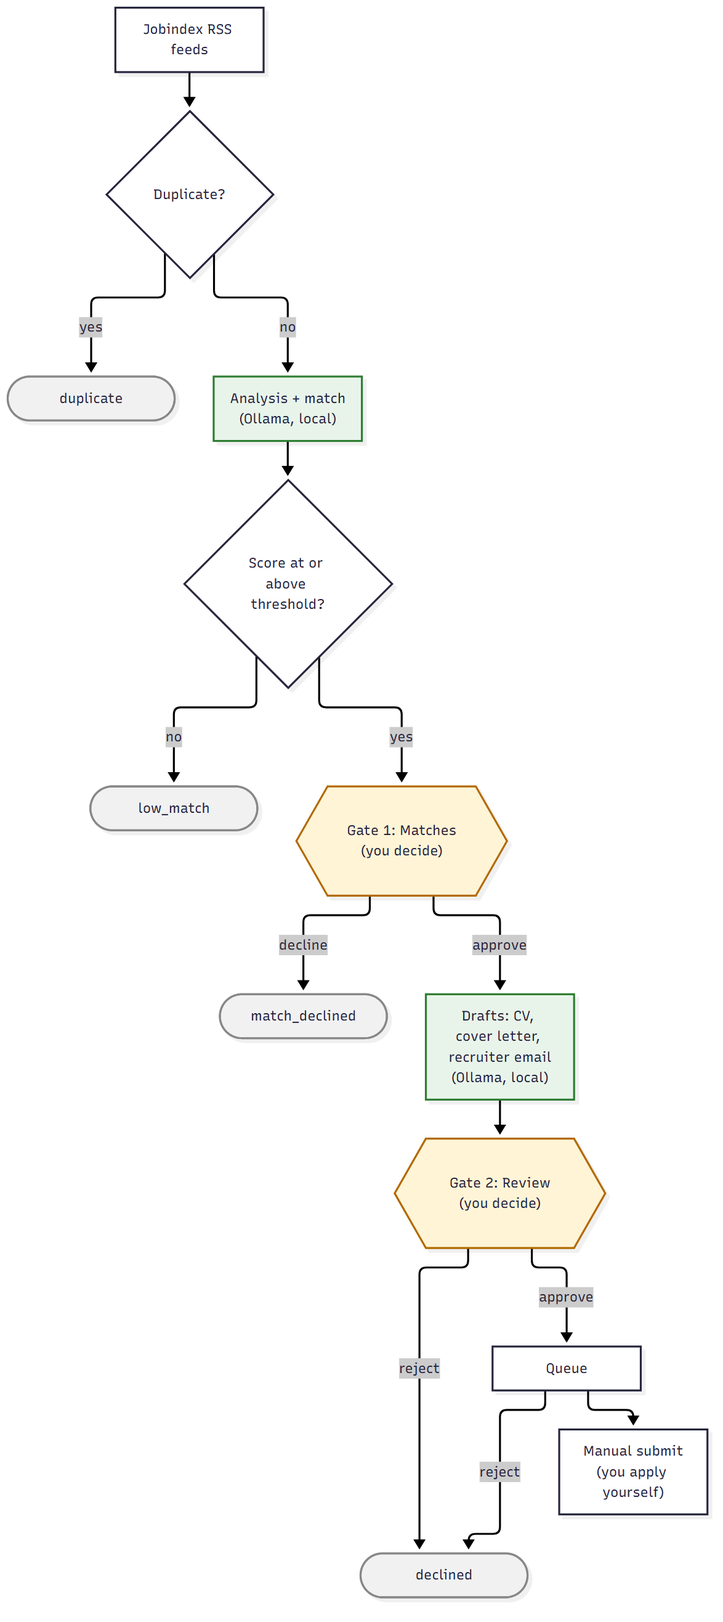
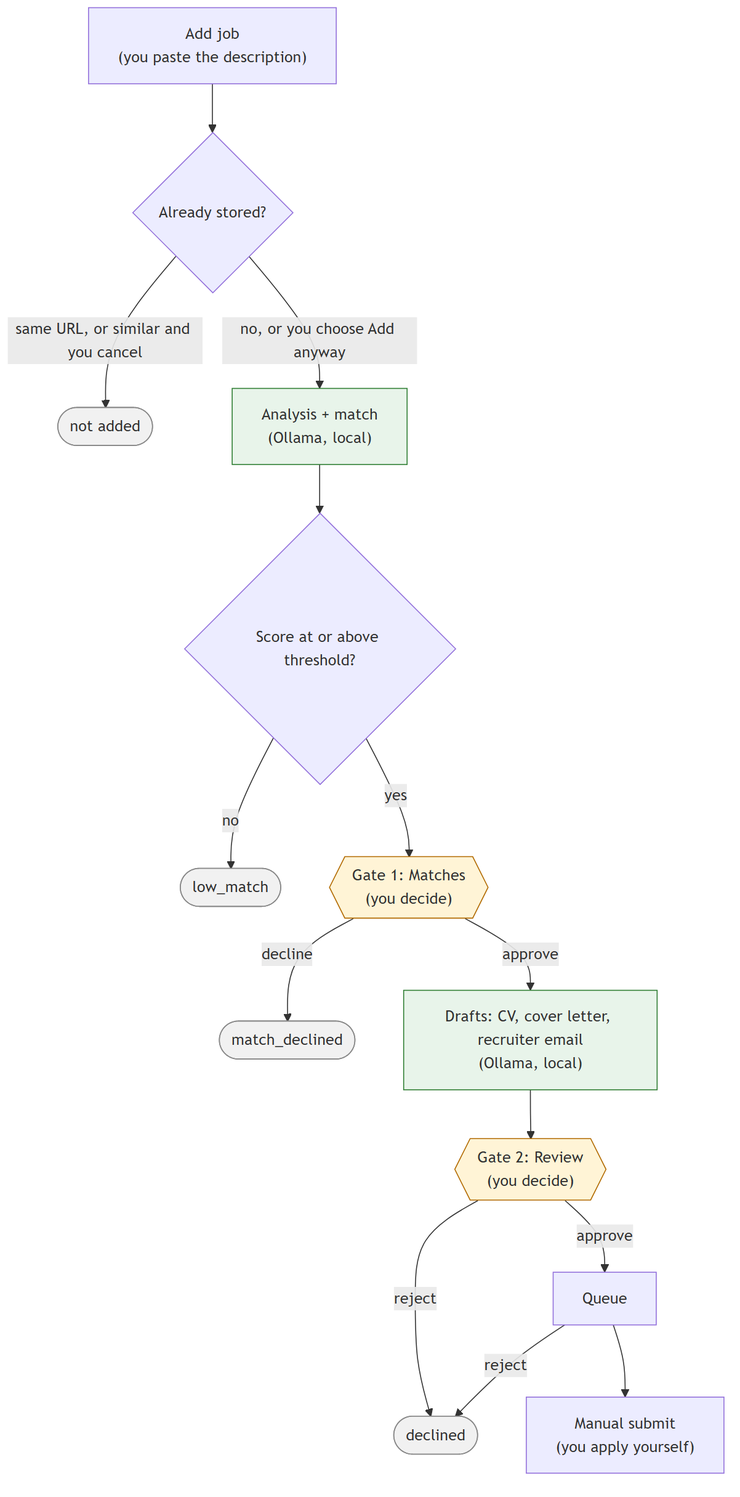
docs: describe manual intake in README, diagram, operations and governance
Record plan 15 follow-ups and close security finding 1 in the plans
README.

diff --git a/docs/plans/README.md b/docs/plans/README.md
@@ -21,7 +21,7 @@ Each plan is sized for **one agent session**. Read [../architecture.md](../archi
 | 12 | [Frontend review tab & chat editing](12-frontend-review.md) | 09, 11 | done |
 | 13 | [Frontend queue tab](13-frontend-queue.md) | 11 | done |
 | 14 | [End-to-end test & v0.1.0 release](14-e2e-and-first-release.md) | all | done |
-| 15 | [Manual job intake](15-manual-intake.md) | 14 | not started |
+| 15 | [Manual job intake](15-manual-intake.md) | 14 | in progress |
 
 Parallelizable after 06: {07, 08, 11}; after 11: {11b (needs 08), 12 (needs 09), 13}.
 
@@ -100,8 +100,15 @@ _(append here)_
 - (14) `python scripts/governance_check.py` fails on a clean checkout: rule `tracked` flags `frontend/.env.local.example` ("env file is tracked") since plan 11, because only `.env.example` is excepted. CI runs the check only when `langflow/**` or the script changes, so it has not shown up. Fix: allow any `*.example` env name in the rule (left alone here: out of plan 14's scope).
 - (14) Ops hardening done: restart policies were already `unless-stopped`; added container log rotation (3 x 10 MB per service, `x-logging` anchor in the compose file); new `scripts/dev.ps1 restore <file>` with `infra/postgres/scripts/restore.sh` (a `--create` dump only loads when both databases are absent, so `reset-db` cannot be the restore step). Restore verified on 2026-10-14 on the throwaway e2e stack: marker row added, backed up, deleted, restored (marker returned, stack healthy); a dump also loads into a fresh `postgres:17` with `POSTGRES_USER=jobsearch`. **Not done:** the weekly Task Scheduler entry is only documented in `docs/operations.md` (the `schtasks` command has not been run on this machine), and the dump does not cover `applications\` or `profile\`, which have no backup at all yet.
 - (14) Docs pass: README quick start (8 steps) and `docs/operations.md` written. The workflow diagram (README mermaid and `docs/assets/workflow.png`) still matches the status machine in `ajs/domain/status.py` for the main path; it omits the side paths `needs_manual_text`, `unsupported_language` and `error`, and shows "duplicate" as a stored status although duplicates are never stored (see the e2e note above). The `gh repo edit --description` text still needs your approval; not changed.
-- (14) Security review 2026-10-14 (by hand: the `/security-review` skill needs an `origin/HEAD` ref this repo does not have, so it could not run). **Verified:** all six published ports bind to 127.0.0.1 (compose file, `docker ps` and `netstat` agree); Ollama listens on 127.0.0.1:11434 only; every `/api/v1` route returns 401 without a valid `X-API-Key` (also with a wrong one), only `/health` is open; `require_api_key` fails closed and uses `secrets.compare_digest`; no `.env`, profile file, `.eml` or certificate is tracked (`infra/.env` and `*/certs/*.crt` are ignored); blob paths reject `..`, absolute paths, drives and symlink escapes; no CORS middleware, subprocess, `eval` or `pickle` in the backend. **Findings, not fixed (out of scope):** (1) *SSRF in the posting fetcher* (low): `PostingFetcher` follows the employer link found on a Jobindex page and any redirect, and the egress guard only blocks hosted-LLM domains, so a hostile page could make the backend container fetch `http://langflow:7860`, `http://postgres:5432` or `host.docker.internal` services and store the answer as posting text. Fix: refuse private, loopback and link-local addresses after DNS resolution (and on every redirect); `e2e.ps1` serves its fixture feed from `host.docker.internal`, so that would need an explicit test-only allowance. (2) *The frontend container adds the API key to every proxied `/api` call* (by design, A1): anyone who can reach 127.0.0.1:5173 on this machine gets full API access without the key, so the key only protects port 8000, not the UI. Fine for a single-user machine; revisit if the machine is shared. (3) `/docs` and `/openapi.json` are open (no secrets, but they list every route). (4) The `ENV=test` setting (plan 14) swaps in a fake chat model and disables pipeline runs; it must never be set in `infra/.env` (the compose file does not pass it to any container). **Not checked:** the strength of the passwords and `BACKEND_API_KEY` in your `infra/.env` (the file is deliberately unreadable to me).
+- (14) Security review 2026-10-14 (by hand: the `/security-review` skill needs an `origin/HEAD` ref this repo does not have, so it could not run). **Verified:** all six published ports bind to 127.0.0.1 (compose file, `docker ps` and `netstat` agree); Ollama listens on 127.0.0.1:11434 only; every `/api/v1` route returns 401 without a valid `X-API-Key` (also with a wrong one), only `/health` is open; `require_api_key` fails closed and uses `secrets.compare_digest`; no `.env`, profile file, `.eml` or certificate is tracked (`infra/.env` and `*/certs/*.crt` are ignored); blob paths reject `..`, absolute paths, drives and symlink escapes; no CORS middleware, subprocess, `eval` or `pickle` in the backend. **Findings, not fixed (out of scope):** (1) *SSRF in the posting fetcher* (low; **closed by plan 15** on 2026-10-17: the fetcher is removed and every backend httpx client is pinned to its host): `PostingFetcher` follows the employer link found on a Jobindex page and any redirect, and the egress guard only blocks hosted-LLM domains, so a hostile page could make the backend container fetch `http://langflow:7860`, `http://postgres:5432` or `host.docker.internal` services and store the answer as posting text. Fix: refuse private, loopback and link-local addresses after DNS resolution (and on every redirect); `e2e.ps1` serves its fixture feed from `host.docker.internal`, so that would need an explicit test-only allowance. (2) *The frontend container adds the API key to every proxied `/api` call* (by design, A1): anyone who can reach 127.0.0.1:5173 on this machine gets full API access without the key, so the key only protects port 8000, not the UI. Fine for a single-user machine; revisit if the machine is shared. (3) `/docs` and `/openapi.json` are open (no secrets, but they list every route). (4) The `ENV=test` setting (plan 14) swaps in a fake chat model and disables pipeline runs; it must never be set in `infra/.env` (the compose file does not pass it to any container). **Not checked:** the strength of the passwords and `BACKEND_API_KEY` in your `infra/.env` (the file is deliberately unreadable to me).
 - (14) Closed 2026-10-17 by the user's decision. Criteria 1-3 are met (the `e2e` CI job passed on PR #7, and v0.1.0 was released on 2026-10-15); criterion 4 (a real run with your own feeds) is waived because plan 15 removes the Jobindex feed. Still open and moved here: the Outlook paste check (plan 13 criterion 3), running the weekly `schtasks` backup entry from `docs/operations.md`, and the `gh repo edit --description` text (needs your approval; it should now describe manual intake).
 - (14 → 15) **Manual intake agreed with the user on 2026-10-17**; the design is now [plan 15](15-manual-intake.md), and architecture D3, D4 and A5 are revised. One refinement found while writing it: **Add anyway** applies to a similar company and title only. A same-URL match is refused, because `fact_posting.source_url` has a unique index.
 - (15, later) Rework scoring and gate 1 for jobs the user picked by hand (the user chose to keep both unchanged in plan 15).
 - (15, later) `docs/assets/Danish-Companies.csv` (987 companies with careers-site columns, mostly unverified, untracked) is a possible future discovery aid; out of scope for plan 15.
+- (15) **Security finding 1 (SSRF) closed.** `PostingFetcher`, the RSS source and trafilatura are gone, so the backend makes no request to the public web. `egress_hook` now requires `only_hosts`; the two clients left are LangFlow and Ollama (chat). Enforced three ways: governance rule `egress` (every `httpx.Client` in `backend/src` has event hooks, every `egress_hook` call passes `only_hosts`), the backend test `test_every_egress_hook_call_pins_its_hosts`, and the CI `langflow` job now also runs when `backend/src/**` changes.
+- (15) Small additions to the plan's wording: (a) Every trigger (Add job, gate-1 approval, Process pending) starts the same run, `Pipeline.run_all`: drafts for `matched` postings, then analysis for `new` ones, repeated until a round finds nothing. A trigger that finds the advisory lock taken is skipped, so without this a job submitted during a drafting run (or an approval during an analysis run) would wait for Process pending. The gate-1 approval no longer starts a generation-only run; an approval therefore also analyzes any pending `new` postings. (b) The same-URL check in `POST /postings` looks at every row, `duplicate` ones included, because the unique index does too (`find_duplicate` skips `duplicate` rows). (c) **Cancel** on a similar-job warning keeps the form contents; editing any field also clears the warning. (d) The default `source` of the tool find/create schemas, `find_duplicate` and the model is now `manual`.
+- (15) Acceptance grep: the terms are still present only in the plans, the Alembic history, `backend/tests/test_migrations.py` (it builds a 0001 database to test migration 0002) and the "Was (2026-10-12)" notes in `architecture.md` D3/D4.
+- (15) `langflow/components/ajs/ajs_load_posting.py` still says "set needs_manual_text in the caller" in an error message. Left alone: LangFlow changes are out of scope.
+- (15, for you) Delete the stale keys in your own `infra/.env`: `JOBINDEX_FEEDS`, `FEED_POLL_INTERVAL_MIN`, `FETCH_USER_AGENT`, `FETCH_DENYLIST` (harmless, settings ignore them). The old `ajs-worker-1` container is stopped but still exists: `docker rm ajs-worker-1` (or `docker compose -f infra/docker-compose.yml up -d --remove-orphans`).
+- (15, for you) **Your real DB, checked 2026-10-17 before migrating:** 87 jobindex `needs_manual_text` postings (migration 0002 deletes them), but also **151 jobindex `new` postings with text**, 1 `analyzed`, 47 `low_match`, 4 `awaiting_match_review`. The worker was still polling when the stack started for this plan; it was stopped about 30 seconds later. **Process pending** (or any Add job submit, since a run analyzes every pending posting) would send all 151 through analysis, about 1-2 GPU-minutes each. Decide what to do with them first (for example set them to `match_declined` or delete them); not done here.
+- (15) `scripts/dev.ps1 up` runs `docker compose up -d --wait` without `--build`, so it does **not** rebuild the backend or frontend image after a code change, although `docs/operations.md` ("Upgrades") says it does. For plan 15 the images were built by hand (`docker compose -f infra/docker-compose.yml build backend frontend`). Fix: add `--build` to `up`, or correct the doc.

diff --git a/docs/operations.md b/docs/operations.md
@@ -1,6 +1,6 @@
 # Operations
 
-Everything runs locally: Docker for Postgres, Phoenix, LangFlow, the backend, the worker and the frontend; Ollama natively on Windows. All ports bind to `127.0.0.1`. Commands are PowerShell 5.1 from the repo root.
+Everything runs locally: Docker for Postgres, Phoenix, LangFlow, the backend and the frontend; Ollama natively on Windows. All ports bind to `127.0.0.1`. Commands are PowerShell 5.1 from the repo root.
 
 ## Where data lives
 
@@ -21,7 +21,7 @@ All runtime data is under `DATA_ROOT` (from `infra/.env`, default `C:\dev\JobSea
 ```
 scripts/dev.ps1 up              # start (and wait until healthy)
 scripts/dev.ps1 ps              # status
-scripts/dev.ps1 logs backend    # follow one service (langflow, worker, postgres, ...)
+scripts/dev.ps1 logs backend    # follow one service (langflow, backend, postgres, ...)
 scripts/dev.ps1 down            # stop, data is kept
 ```
 
@@ -47,13 +47,13 @@ Check it with `schtasks /Query /TN "AI Job Search backup"` and remove it with `s
 scripts/dev.ps1 restore 2026-10-14_180907.sql
 ```
 
-It asks you to type `restore`, stops the worker, backend, LangFlow and frontend, **drops both databases**, loads the dump and starts everything again. Only files inside `DATA_ROOT\backups` can be restored. `applications\` and `profile\` are untouched, so restore them from your own copy if they are lost.
+It asks you to type `restore`, stops the backend, LangFlow and frontend, **drops both databases**, loads the dump and starts everything again. Only files inside `DATA_ROOT\backups` can be restored. `applications\` and `profile\` are untouched, so restore them from your own copy if they are lost.
 
 The command was tested on 2026-10-14 on a throwaway stack (a marker row was added, backed up, deleted and restored). A dump also loads into a fresh Postgres 17 started with the same `POSTGRES_USER`, which is how to check a backup without touching the live stack.
 
 ## Update
 
-- **Code**: `git pull`, then `scripts/dev.ps1 up` (rebuilds the backend, worker and frontend images). Database migrations run when the backend starts.
+- **Code**: `git pull`, then `scripts/dev.ps1 up` (rebuilds the backend and frontend images). Database migrations run when the backend starts.
 - **A release**: the pinned images are `ghcr.io/<owner>/ajs-backend:X.Y.Z` and `ajs-frontend:X.Y.Z`; flows come as `langflow-flows-vX.Y.Z.zip` on the GitHub Release.
 - **Models**: `scripts/pull-models.ps1` pulls `gemma4:12b` and `bge-m3` and rebuilds the `ajs-gemma` alias from `infra/ollama/Gemma.Modelfile`. Change the model in `infra/.env` (`LLM_AGENT_MODEL`, `LLM_WRITER_MODEL`, `EMBED_MODEL`) and re-run `scripts/import-flows.ps1` so LangFlow's variables follow. Keep one `num_ctx` everywhere: a different value reloads the model.
 - **LangFlow version**: change the tag in `infra/docker-compose.yml` (`langflowai/langflow:1.12.3`), run `scripts/dev.ps1 up`, then `scripts/import-flows.ps1`. Custom components are mounted from `langflow/components`; restart the LangFlow container after changing one. After editing a flow in the UI, run `scripts/export-flows.ps1` and commit the JSON.
@@ -63,11 +63,12 @@ The command was tested on 2026-10-14 on a throwaway stack (a marker row was adde
 
 - Backend `cd backend; uv run pytest` (needs a scratch `DATABASE_URL`), frontend `cd frontend; npm test`.
 - Browser suite `cd frontend; npm run test:e2e` (fake data, stubbed chat; own database `jobsearch_e2e`).
-- Whole pipeline `scripts/e2e.ps1` (takes the stack down, runs it on `C:\dev\JobSearchData-e2e` with a synthetic feed, then restores your stack; about 10 minutes with a warm model).
+- Whole pipeline `scripts/e2e.ps1` (takes the stack down, runs it on `C:\dev\JobSearchData-e2e` with 4 synthetic jobs sent through `POST /postings`, then restores your stack; about 10 minutes with a warm model).
 
 ## Troubleshooting
 
 - **Port already allocated**: another stack publishes it; `docker ps`.
 - **Every pipeline run fails with 403**: `LANGFLOW_API_KEY` is missing or stale (it is lost when LangFlow's database is reset or restored from a dump made before the key existed). Create a new key and run `scripts/dev.ps1 up`.
 - **First start on an empty `DATA_ROOT` fails**: fixed on `test/14-e2e` and released from v0.1.0 (the Postgres health check uses TCP); on an older checkout run `scripts/dev.ps1 up` a second time.
-- **Posting stuck in `needs_manual_text`**: open it in the Review tab and paste the text.
+- **Posting stuck in `new`** (the backend restarted during a run, or the run failed before LangFlow answered): press **Process pending** on Home. It re-runs analysis for `new` postings and drafting for `matched` ones.
+- **Old `needs_manual_text` postings**: manual intake (plan 15) no longer sets this status, and the plan 15 migration deleted the feed postings that had it. To retry such a job, paste it again in **Add job**.

diff --git a/docs/governance.md b/docs/governance.md
@@ -5,10 +5,11 @@ rules keep it that way.
 
 | Rule | Enforced by |
 |---|---|
-| **Ollama is the only model endpoint.** No cloud LLM SDK, key or hosted-LLM URL in `backend/`, `langflow/` or `frontend/src`. | `scripts/governance_check.py` (rules `flows`, `sdk`; CI job `langflow` and `.pre-commit-config.yaml`). At runtime `ajs.services.egress` refuses any backend/worker request to a hosted-LLM domain, and pins the LangFlow client to the LangFlow host. The LangFlow container gets no model secrets. |
+| **Ollama is the only model endpoint.** No cloud LLM SDK, key or hosted-LLM URL in `backend/`, `langflow/` or `frontend/src`. | `scripts/governance_check.py` (rules `flows`, `sdk`; CI job `langflow` and `.pre-commit-config.yaml`). At runtime `ajs.services.egress` refuses any backend request to a hosted-LLM domain. The LangFlow container gets no model secrets. |
 | **Every model component in a flow is Ollama-based**; base URLs and model names come from LangFlow variables (`OLLAMA_BASE_URL`, `LLM_AGENT_MODEL`, ...). | `governance_check.py` (`flows`) and `langflow/tests/test_flows_static.py`. |
 | **Prompts change through a PR.** Every `langflow/prompts/*.md` body must be embedded verbatim in a flow. | `governance_check.py` (`prompts`). Edit the file, bump `version:`, rebuild the flow with its `langflow/tools/build_*.py`. |
 | **No personal data in git** (CV, templates, `.eml`, `.env`, anything under `profile/`). | `governance_check.py` (`tracked`, reads `git ls-files`), `.gitignore`. |
+| **The backend never reaches the public web** (D4: posting text is pasted, never fetched). Every httpx client is pinned to its one host: LangFlow, and Ollama for chat editing; Phoenix gets OTLP from the exporter. | `ajs.services.egress` (`only_hosts` is required), `governance_check.py` (rule `egress`: every `httpx.Client` in `backend/src` has event hooks and every `egress_hook` call passes `only_hosts`), and a backend test (`test_every_egress_hook_call_pins_its_hosts`). |
 | **Traces are personal data.** They hold CV and posting text, so Phoenix stays on `127.0.0.1` and prunes after `PHOENIX_RETENTION_DAYS` (90). | `PHOENIX_DEFAULT_RETENTION_POLICY_DAYS` in `docker-compose.yml`; `scripts/dev.ps1 prune-traces` deletes on demand. |
 
 Run the check yourself: `python scripts/governance_check.py` (standard library only). Its tests,
@@ -16,7 +17,7 @@ including a planted OpenAI component, are in `langflow/tests/test_governance_che
 
 ## Tracing
 
-- **Backend and worker** send OpenTelemetry spans (FastAPI, httpx, SQLAlchemy) to Phoenix project `ajs-backend` (`OTEL_ENABLED=false` turns it off). Spans hold no bodies.
+- **The backend** sends OpenTelemetry spans (FastAPI, httpx, SQLAlchemy) to Phoenix project `ajs-backend` (`OTEL_ENABLED=false` turns it off). Spans hold no bodies.
 - **LangFlow** sends its own traces, one Phoenix project per flow (`analyze_and_match`, `generate_documents`; LangFlow names the project after the flow). It does not continue an incoming trace.
 - **Link between the two:** every flow run gets a session id `ajs-<hex>`. The backend span `langflow.run` has it as `session.id`, `workflow_run.langflow_run_id` stores it, and the backend adds `ajs_session` and `ajs_trace_id` to the flow's JSON input, which LangFlow shows as `input.value` on the root span of its trace. `workflow_run.phoenix_trace_id` is the backend trace; `POST /workflow/run` returns both.
 - Ollama and bge-m3 calls are plain `httpx` calls inside the custom components, so Phoenix shows component spans but no token counts (plan 08 note).

diff --git a/README.md b/README.md
@@ -1,6 +1,6 @@
 # AI Job Search
 
-A local-only assistant that turns Jobindex job postings into reviewed, ready-to-send applications. It polls Jobindex RSS feeds, deduplicates postings, scores each against your CV, asks you to confirm good matches, and drafts a tailored CV, cover letter and recruiter email in English. Every LLM runs locally through Ollama, and applications are always submitted manually after you review them in the web UI.
+A local-only assistant that turns the job postings you pick into reviewed, ready-to-send applications. You paste each job description into the **Add job** form; it deduplicates the posting, scores it against your CV, asks you to confirm good matches, and drafts a tailored CV, cover letter and recruiter email in English. Every LLM runs locally through Ollama, and applications are always submitted manually after you review them in the web UI.
 
 ## Prerequisites
 
@@ -15,12 +15,12 @@ A local-only assistant that turns Jobindex job postings into reviewed, ready-to-
 PowerShell 5.1 on Windows, from the repo root.
 
 1. Install the prerequisites above and start Ollama. Pull the models: `scripts/pull-models.ps1` (about 9 GB).
-2. Copy `infra/.env.example` to `infra/.env`. Replace every `change-me`, set `BACKEND_API_KEY`, and put your Jobindex RSS feed URL(s) in `JOBINDEX_FEEDS` (comma-separated, one per saved search). `DATA_ROOT` must stay outside OneDrive.
+2. Copy `infra/.env.example` to `infra/.env`. Replace every `change-me` and set `BACKEND_API_KEY`. `DATA_ROOT` must stay outside OneDrive.
 3. Start the stack: `scripts/dev.ps1 up` (starts Docker Desktop if needed, builds the images, waits until healthy).
 4. Open LangFlow at http://127.0.0.1:7860, sign in with `LANGFLOW_SUPERUSER`, create an API key (Settings > API Keys) and put it in `infra/.env` as `LANGFLOW_API_KEY`.
 5. Import the flows and their variables: `scripts/import-flows.ps1`. Then apply the key: `scripts/dev.ps1 up`.
 6. Add your own profile files in `DATA_ROOT\profile\` (never in git): copy the three stubs in `docs/profile-examples/` to `cv.md`, `cover_letter_template.md` and `recruiter_email_template.md`, and edit them.
-7. Open http://127.0.0.1:5173 and press **Run pipeline now** (the worker also polls once a day).
+7. Open http://127.0.0.1:5173, go to **Add job** and paste a job: company, title, application URL (optional) and the whole description. Its analysis starts at once. If the backend restarts during a run, **Process pending** on Home picks up what was left.
 8. Work through the tabs: **Matches** (approve or decline), **Review** (read and edit the drafts, approve), **Queue** (copy the email, apply on the employer's site, mark submitted).
 
 Day-to-day operation, backups and upgrades: [docs/operations.md](docs/operations.md).
@@ -31,9 +31,9 @@ Two human gates: **Matches** (approve a match) and **Review** (approve the draft
 
 ```mermaid
 flowchart TD
-  feed["Jobindex RSS feeds"] --> dedup{"Duplicate?"}
-  dedup -- yes --> dup(["duplicate"])
-  dedup -- no --> analyse["Analysis + match<br/>(Ollama, local)"]
+  paste["Add job<br/>(you paste the description)"] --> dedup{"Already stored?"}
+  dedup -- "same URL, or similar and you cancel" --> dup(["not added"])
+  dedup -- "no, or you choose Add anyway" --> analyse["Analysis + match<br/>(Ollama, local)"]
   analyse --> thr{"Score at or above threshold?"}
   thr -- no --> low(["low_match"])
   thr -- yes --> g1{{"Gate 1: Matches<br/>(you decide)"}}

diff --git a/docs/architecture.md b/docs/architecture.md
@@ -54,7 +54,7 @@ Sources: [Gemma 4 on Ollama](https://ollama.com/library/gemma4), [DFM-Mimir card
 | D8 | **Hybrid match score** 0–100 = `w_e * embedding_cosine + w_r * rubric_score`, weights and threshold in config (defaults 0.4/0.6, **threshold 55**, revised 2026-10-12 from 70; recalibrate on the plan 04 labeled set). The score only triages: the user confirms each match at gate 1 (D9). | Stable + explainable. |
 | D9 | **Two human review gates (2026-10-12).** Gate 1 **Matches** tab: postings at or above the threshold wait in `awaiting_match_review`; the user approves (→ `matched`, drafts are generated) or declines (→ `match_declined`). Gate 2 **Review** tab: the user approves the drafts into the queue. UI flow: Matches → Review → Queue. | No GPU time spent drafting unwanted jobs; matches the workflow diagram promised in the recruiter email. |
 | D10 | **Location and language are flags, not scored (2026-10-12).** The rubric scores `skills`, `experience`, `domain` only. `location`, `relocation_ok`, `required_languages` and `danish_required` are extracted into `job_brief` and shown as flags at gate 1. | With equal weights a relocating candidate lost 30–40 of 100 points (plan 04, 2026-09-30), which hid good jobs. |
-| D11 | **Workflow diagram (2026-10-12).** One Mermaid diagram in `README.md` (Jobindex feed → analysis → gate 1 → drafts → gate 2 → queue → manual submit), also rendered to `docs/assets/workflow.png`. The recruiter email is delivered by a **Copy as rich text** button in the Queue tab: HTML body with an `<img>` pointing to the public `raw.githubusercontent.com` URL of `workflow.png`, so it survives pasting into Outlook (a `data:` URI usually does not). | The template promises a diagram "below"; the user wants it in the email and in the repo. |
+| D11 | **Workflow diagram (2026-10-12).** One Mermaid diagram in `README.md` (Add job → dedup → analysis → gate 1 → drafts → gate 2 → queue → manual submit; was "Jobindex feed → …" until plan 15), also rendered to `docs/assets/workflow.png`. The recruiter email is delivered by a **Copy as rich text** button in the Queue tab: HTML body with an `<img>` pointing to the public `raw.githubusercontent.com` URL of `workflow.png`, so it survives pasting into Outlook (a `data:` URI usually does not). | The template promises a diagram "below"; the user wants it in the email and in the repo. |
 
 ## 3. Assumptions (not asked; change if wrong)
 - A1 Single local user; frontend/API bound to localhost; no auth beyond a shared API key between services.

diff --git a/docs/model-evaluation.md b/docs/model-evaluation.md
@@ -83,7 +83,7 @@ Blind 1–5 ratings by the user (run r2): **cover letters 4.00** (6 of 6 rated 4
 
 ### Co-residency *(0.40.3)*
 
-- `/api/ps` showed both models fully on GPU in 11/12 checks after postings. The miss is the first load: Gemma loaded after `bge-m3` evicts it. Controlled test: `bge-m3` then Gemma leaves **only Gemma**; Gemma then `bge-m3` leaves **both**, 100% GPU. Same behaviour as 0.34.4, so the worker still warms up `ajs-gemma` first.
+- `/api/ps` showed both models fully on GPU in 11/12 checks after postings. The miss is the first load: Gemma loaded after `bge-m3` evicts it. Controlled test: `bge-m3` then Gemma leaves **only Gemma**; Gemma then `bge-m3` leaves **both**, 100% GPU. Same behaviour as 0.34.4, so the flow components still warm up `ajs-gemma` first.
 - Peak `nvidia-smi` memory.used: 10,747 MiB of 12,227 MiB.
 
 ### VRAM (both models loaded, `nvidia-smi`)

diff --git a/CLAUDE.md b/CLAUDE.md
@@ -1,6 +1,6 @@
 # AI Job Search
 
-Local-only pipeline: Jobindex RSS feeds → LangFlow agents (Ollama) → FastAPI/Postgres → React review UI. Applications are drafted automatically and always submitted manually. Two human gates: Matches (approve a match) and Review (approve drafts).
+Local-only pipeline: jobs pasted into the Add job form → LangFlow agents (Ollama) → FastAPI/Postgres → React review UI. Applications are drafted automatically and always submitted manually. Two human gates: Matches (approve a match) and Review (approve drafts).
 
 - Design and decisions D1–D11, assumptions A1–A6: [docs/architecture.md](docs/architecture.md)
 - Work is split into session-sized plans: [docs/plans/README.md](docs/plans/README.md) (use `/execute-plan`)
